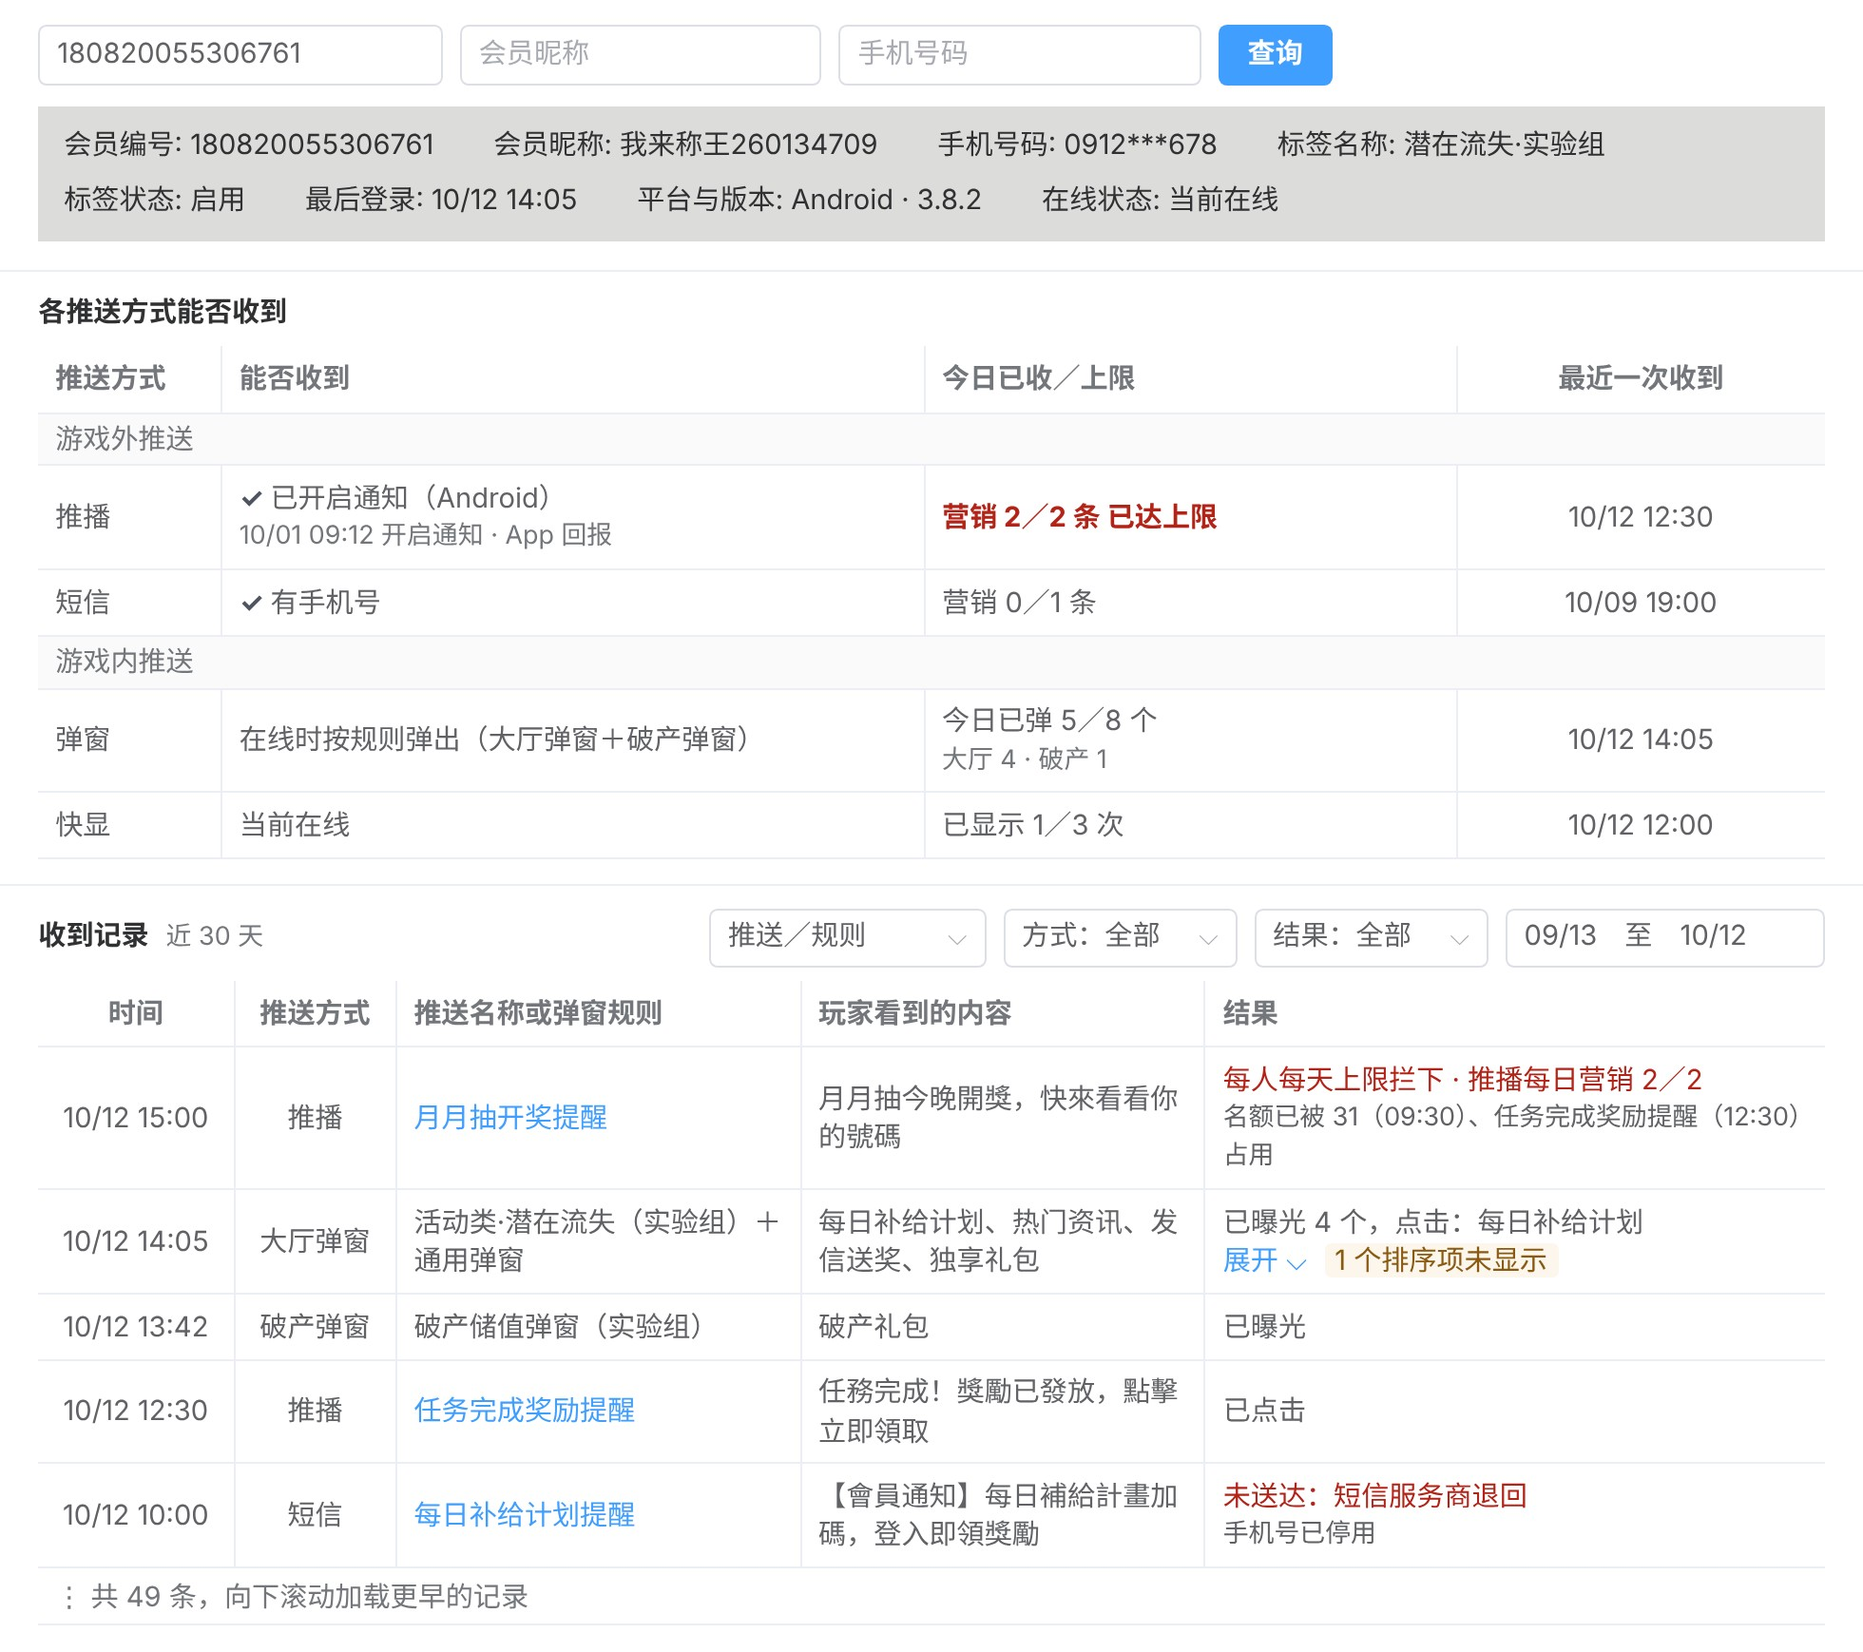
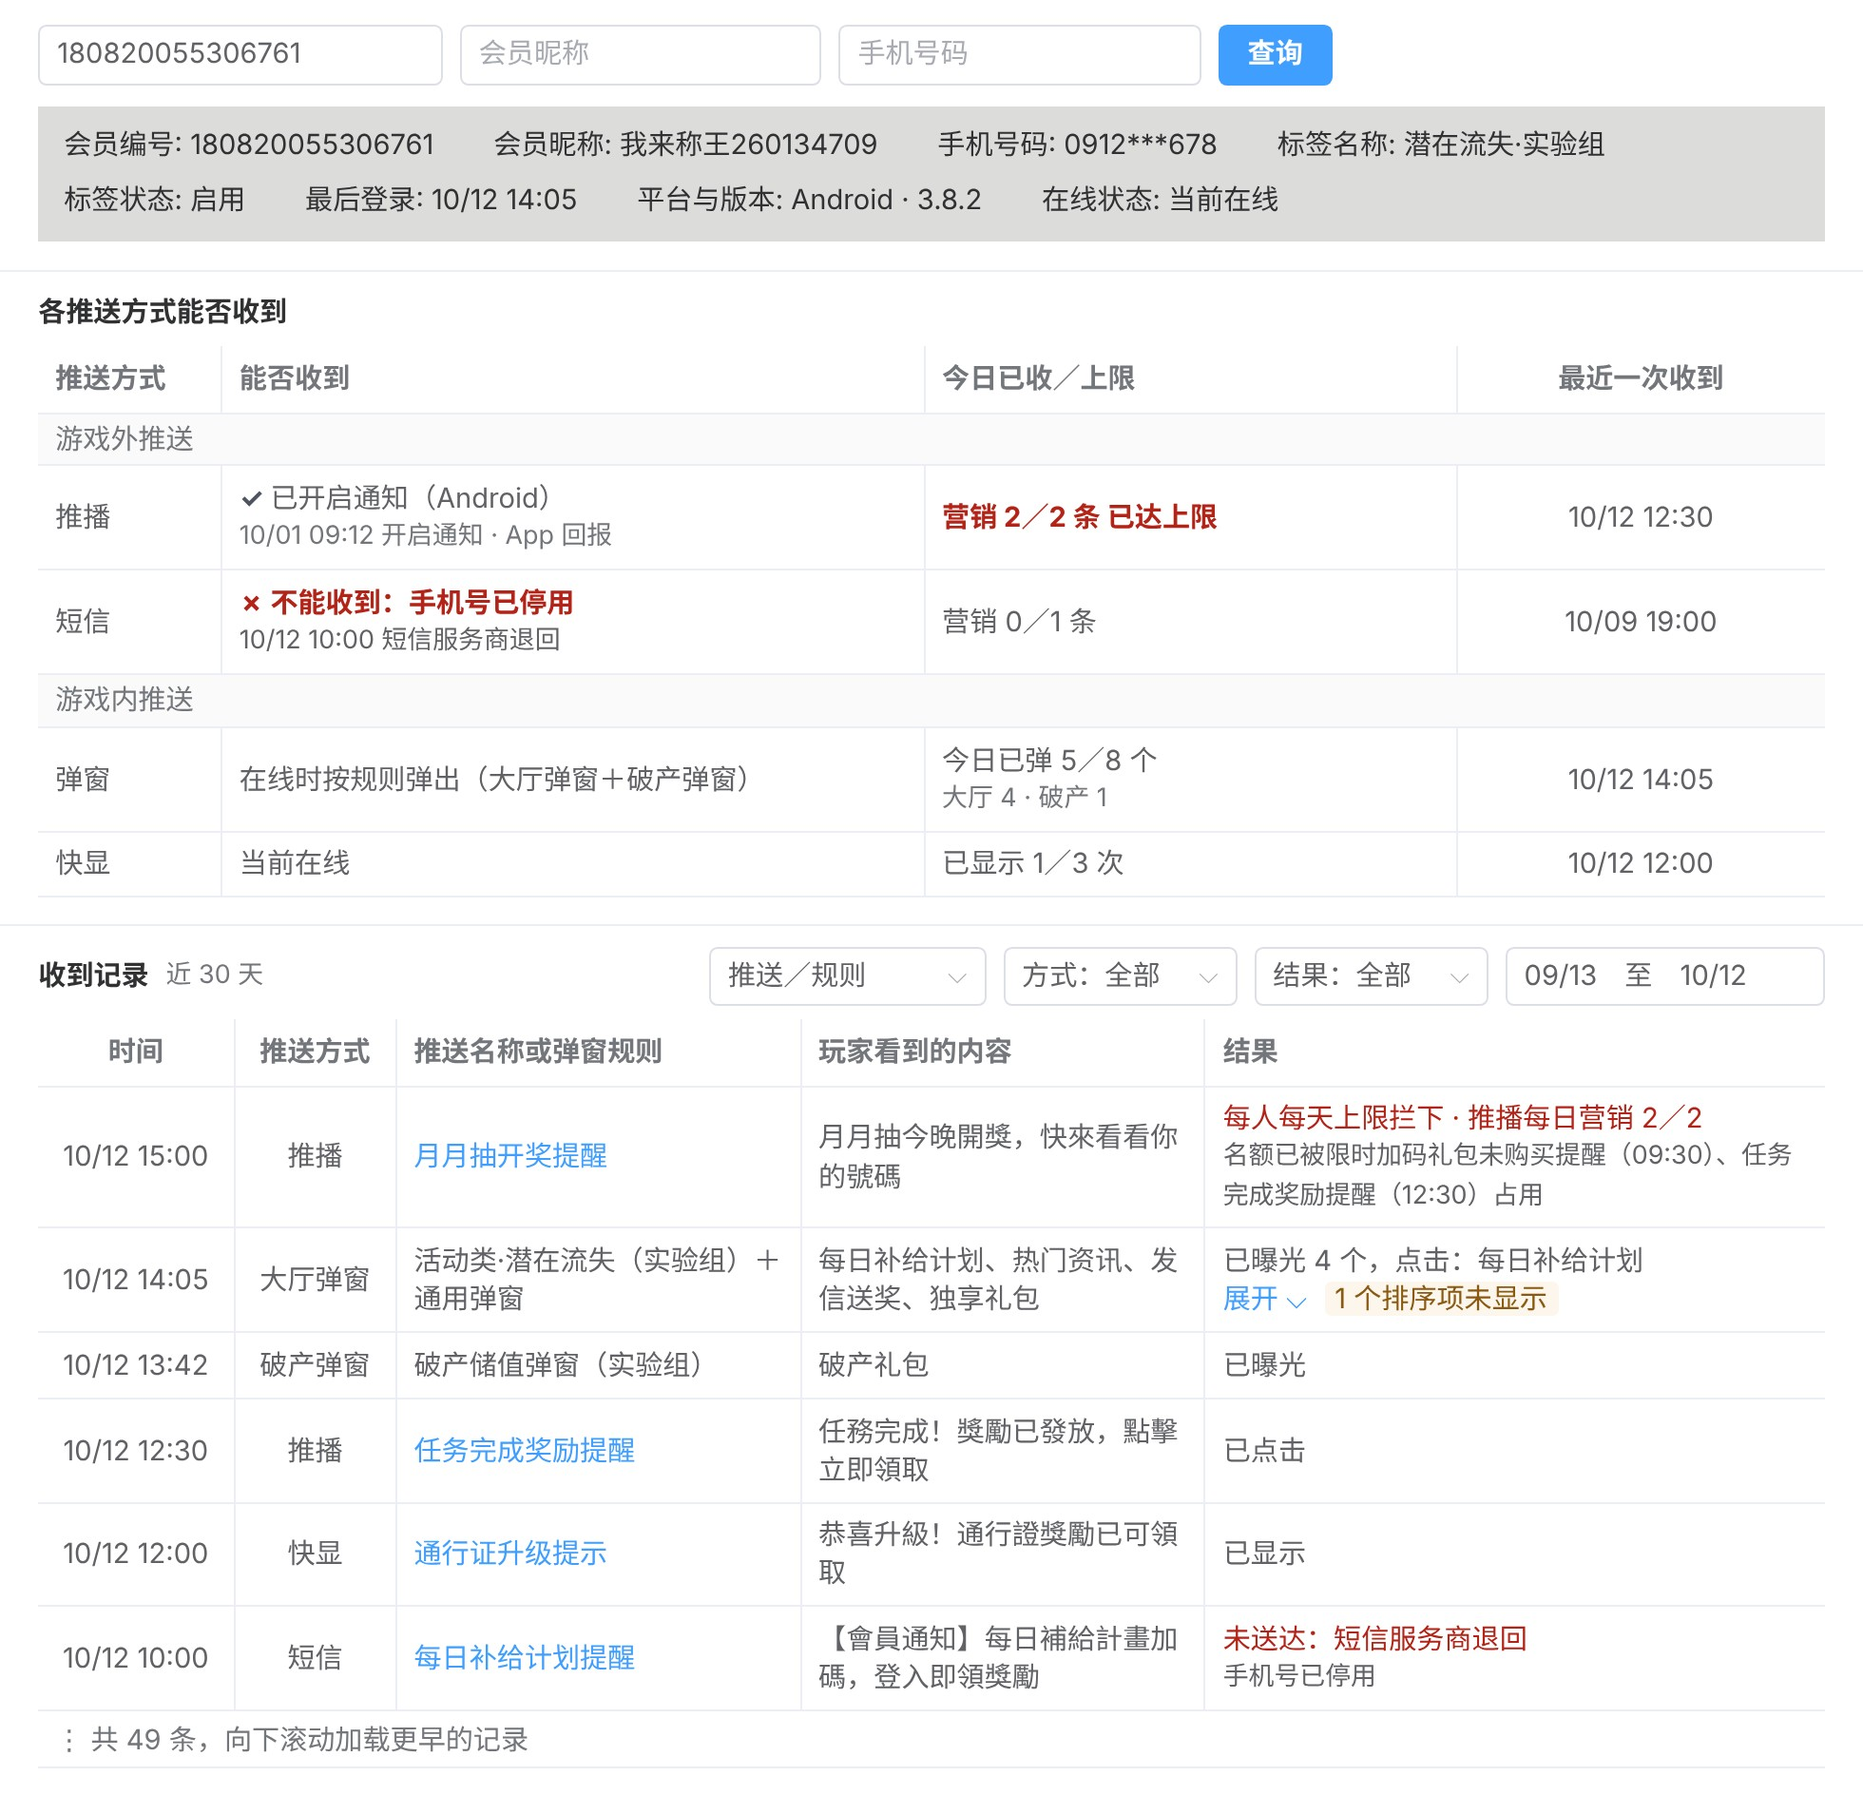
需求评审版进行中：后台结构图、截图示例数据对齐、图表样章
Claude-Session: https://claude.ai/code/session_01JtVy4xu4oTwDzwihYuUW45

diff --git a/弹窗标签推送系统/推送系统后台集成需求/需求评审版_原型/19_玩家查询.html b/弹窗标签推送系统/推送系统后台集成需求/需求评审版_原型/19_玩家查询.html
@@ -32,7 +32,7 @@ table.et td.l, table.et th.l{padding-left:8px}
       <tbody>
         <tr><td colspan="4" class="l" style="background:#FAFAFA;color:#73767A;padding:3px 8px">游戏外推送</td></tr>
         <tr><td class="l">推播</td><td class="l pd-ok">已开启通知（Android）<span class="sub2">10/01 09:12 开启通知 · App 回报</span></td><td class="l"><b class="pd-bad" style="white-space:nowrap">营销 2／2 条 已达上限</b></td><td>10/12 12:30</td></tr>
-        <tr><td class="l">短信</td><td class="l pd-ok">有手机号</td><td class="l">营销 0／1 条</td><td>10/09 19:00</td></tr>
+        <tr><td class="l">短信</td><td class="l pd-bad" style="white-space:nowrap"><b>✗ 不能收到：手机号已停用</b><span class="sub2" style="color:#606266">10/12 10:00 短信服务商退回</span></td><td class="l">营销 0／1 条</td><td>10/09 19:00</td></tr>
         <tr><td colspan="4" class="l" style="background:#FAFAFA;color:#73767A;padding:3px 8px">游戏内推送</td></tr>
         <tr><td class="l">弹窗</td><td class="l">在线时按规则弹出（大厅弹窗＋破产弹窗）</td><td class="l">今日已弹 5／8 个<span class="sub2">大厅 4 · 破产 1</span></td><td>10/12 14:05</td></tr>
         <tr><td class="l">快显</td><td class="l">当前在线</td><td class="l">已显示 1／3 次</td><td>10/12 12:00</td></tr>
@@ -45,10 +45,11 @@ table.et td.l, table.et th.l{padding-left:8px}
       <colgroup><col style="width:92px"><col style="width:76px"><col style="width:190px"><col style="width:190px"><col></colgroup>
       <thead><tr><th>时间</th><th>推送方式</th><th class="l">推送名称或弹窗规则</th><th class="l">玩家看到的内容</th><th class="l">结果</th></tr></thead>
       <tbody>
-        <tr><td>10/12 15:00</td><td>推播</td><td class="l"><span class="pd-lk">月月抽开奖提醒</span></td><td class="l tc">月月抽今晚開獎，快來看看你的號碼</td><td class="l pd-bad">每人每天上限拦下 · 推播每日营销 2／2<span class="sub2" style="color:#606266">名额已被 31（09:30）、任务完成奖励提醒（12:30）占用</span></td></tr>
+        <tr><td>10/12 15:00</td><td>推播</td><td class="l"><span class="pd-lk">月月抽开奖提醒</span></td><td class="l tc">月月抽今晚開獎，快來看看你的號碼</td><td class="l pd-bad">每人每天上限拦下 · 推播每日营销 2／2<span class="sub2" style="color:#606266">名额已被限时加码礼包未购买提醒（09:30）、任务完成奖励提醒（12:30）占用</span></td></tr>
         <tr><td>10/12 14:05</td><td>大厅弹窗</td><td class="l">活动类·潜在流失（实验组）＋通用弹窗</td><td class="l">每日补给计划、热门资讯、发信送奖、独享礼包</td><td class="l">已曝光 4 个，点击：每日补给计划<span style="display:block"><span class="u">展开 ⌵</span><span style="margin-left:8px;padding:0 5px;border-radius:3px;background:#FDF6EC;color:#8A5A12">1 个排序项未显示</span></span></td></tr>
         <tr><td>10/12 13:42</td><td>破产弹窗</td><td class="l">破产储值弹窗（实验组）</td><td class="l">破产礼包</td><td class="l">已曝光</td></tr>
         <tr><td>10/12 12:30</td><td>推播</td><td class="l"><span class="pd-lk">任务完成奖励提醒</span></td><td class="l tc">任務完成！獎勵已發放，點擊立即領取</td><td class="l">已点击</td></tr>
+        <tr><td>10/12 12:00</td><td>快显</td><td class="l"><span class="pd-lk">通行证升级提示</span></td><td class="l tc">恭喜升級！通行證獎勵已可領取</td><td class="l">已显示</td></tr>
         <tr><td>10/12 10:00</td><td>短信</td><td class="l"><span class="pd-lk">每日补给计划提醒</span></td><td class="l tc">【會員通知】每日補給計畫加碼，登入即領獎勵</td><td class="l pd-bad">未送达：短信服务商退回<span class="sub2" style="color:#606266">手机号已停用</span></td></tr>
         <tr><td colspan="5" class="l" style="color:#73767A;padding:4px 8px">⋮ 共 49 条，向下滚动加载更早的记录</td></tr>
       </tbody>

diff --git a/弹窗标签推送系统/推送系统后台集成需求/需求评审版_原型/18a_项目目录.html b/弹窗标签推送系统/推送系统后台集成需求/需求评审版_原型/18a_项目目录.html
@@ -31,7 +31,7 @@ body{font-family:"Inter","Noto Sans CJK SC","PingFang SC","Microsoft YaHei",sans
       <thead><tr><th>名称与编码</th><th style="width:76px">类型</th><th style="width:220px">起止时间</th><th style="width:90px">状态</th><th class="r" style="width:84px">被引用</th><th style="width:64px">操作</th></tr></thead>
       <tbody>
         <tr><td class="nm"><b>周年庆</b><span class="sub">ACT_ANNIV_26</span></td><td>活动类</td><td style="white-space:nowrap">10/24 12:00 – 10/31 23:59</td><td><span class="stt">已排程</span></td><td class="r">13</td><td class="ops"><span class="elink">编辑</span></td></tr>
-        <tr><td class="nm"><b>活动排行榜 · 万圣节榜</b><span class="sub">ACT_RANK_HW26</span></td><td>活动类</td><td style="white-space:nowrap">10/16 12:00 – 11/02 23:59</td><td><span class="stt">已排程</span></td><td class="r">3</td><td class="ops"><span class="elink">编辑</span></td></tr>
+        <tr><td class="nm"><b>活动排行榜 · 万圣节榜</b><span class="sub">ACT_RANK_HW26</span></td><td>活动类</td><td style="white-space:nowrap">10/16 12:00 – 11/02 23:59</td><td><span class="stt">已排程</span></td><td class="r">5</td><td class="ops"><span class="elink">编辑</span></td></tr>
         <tr><td class="nm"><b>回流礼包 B</b><span class="sub">GIFT_RETURN_B</span></td><td>储值类</td><td style="white-space:nowrap">10/10 00:00 – 10/31 23:59</td><td><span class="stt on">可用</span></td><td class="r">1</td><td class="ops"><span class="elink">编辑</span></td></tr>
         <tr><td class="nm"><b>活动排行榜 · 中秋排名赛</b><span class="sub">ACT_RANK_MAF26</span></td><td>活动类</td><td style="white-space:nowrap">10/05 12:00 – 10/20 23:59</td><td><span class="stt on">可用</span></td><td class="r">3</td><td class="ops"><span class="elink">编辑</span></td></tr>
         <tr style="color:var(--mute)"><td class="nm"><b style="color:var(--mute)">BOSS 战 · 第 11 期</b><span class="sub">ACT_BOSS_S11</span></td><td>活动类</td><td style="white-space:nowrap">09/20 12:00 – 10/08 23:59</td><td><span class="stt dim">已下线</span></td><td class="r">1</td><td class="ops"><span class="elink">编辑</span></td></tr>

diff --git a/弹窗标签推送系统/分析/需求评审版_改版记录.md b/弹窗标签推送系统/分析/需求评审版_改版记录.md
@@ -33,6 +33,38 @@
 
 交付前必查：第 3 条（措辞）过——上面的 grep 与逐张读图；第 4 条（只写有效信息）过——图里没有路径、标注、被删功能（接替人数、多截掉项目数、逐条平移、迁入管理、活动总览、测试记录）；第 8 条（每个功能先问）过——11、18 照 A91 第一节改，其余 10 张没有新增功能。第 1、2、5、6、7、9 条是整份材料的结构与页标题，本子任务只出截图，不适用。
 
+核对员反馈后补改（只动 18a、19 的源文件与 jpg，18 无需改）：① 18a 万圣节榜「被引用」3 → 5，与 18 列出的 5 项一致；② 19 名额占用写成名称「限时加码礼包未购买提醒（09:30）」，不再只写编号 31；③ 19 下方近 30 天记录补一行 10/12 12:00 快显「通行证升级提示」已显示，与上表快显「最近一次收到 12:00、已显示 1／3 次」对上；④ 19 上表短信行由「有手机号」改为「不能收到：手机号已停用（10/12 10:00 短信服务商退回）」，与下方记录一致，最近一次收到仍为 10/09 19:00（停用之前）。上面 18a「数字同旧图」、19 的差异说明以本条为准。
+
+### C 后台结构
+
+改了什么：`需求评审版源.html` 里 `<section class="arch">` 整块重做；主 `<style>` 里原「开屏：后台结构图」23 行（`.frame/.cols/.mcol/.meth/.chips/.pgx/.laterrow/.later/.shared` 等，已确认别处没用到）删掉，结构图样式另写在 `<style id="arch">` 一块里。没动其他页、主样式其余部分，没运行拼装脚本。
+
+比较过的排法：
+| 排法 | 看到的效果 | 结论 |
+|---|---|---|
+| A 容器嵌套，横条宽度表示管多大范围 | 三块各是一个底色容器；推送方式是并列的列，页面在列下；管整类的页面是横跨该类两列的横条；两类共用在下方横跨两栏——越往下管的范围越大，不用写字说明 | 选 |
+| B 从左到右的树（后台 → 三块 → 推送方式 → 页面） | 右列 13 个页面就是侧栏目录换了个方向（评-16 已否的「第二份目录」）；「每人每天上限与勿扰」和推送方式下的页面挂在同一列，看不出它管整类；会员标签设定的连线要指向分散的四个节点 | 不选 |
+
+A 里又试了三种画法：A2 推播、短信都画成实心色块——短信看着像没有页面的空分类；A3 推送方式区再加一层浅底——横条与推送方式分得开，但多一层容器，而且实心的「推播」挨着白框「短信」，像一个选中推播的切换按钮；A4 推播、弹窗画成带色条标题的卡片，卡片里装它们的页面，短信、快显就是一个白框——用 A4。横条放在推送方式下面而不是上面：标签群组的连线从上方进入推送方式，横条在上面会被连线穿过；也与菜单顺序一致（推播、短信在前，上限、数据统计在后）。
+
+最终组成（先截图、后结构图）：
+- 原型截图 `需求评审版_图/00_后台首页.jpg`，980 宽，图注「后台首页」。
+- 结构图：内联 SVG，980×656，宽度随版面缩放。框外灰框「会员标签设定（现有后台）」，一条标「标签群组」的连线进入外框，分出四个箭头指向推播、短信、弹窗、快显。外框「推送统一后台」里：左栏游戏外推送（玩家不在游戏里也收得到），推播卡片装按玩家分群推送、按玩家行为自动推送，旁边是短信，下面两条横条是每人每天上限与勿扰、推播与短信数据统计；右栏游戏内推送（玩家在游戏里才看得到），弹窗卡片装按玩家分群配置弹窗，旁边是快显，横条是每人每天弹窗与快显上限、弹窗与快显数据统计；下方两类共用横跨两栏：概览、项目目录、玩家查询、操作纪录。
+- 白框就是页面，共 13 个，与侧栏 13 页一一对应，各链接到 `#p1`–`#p13`，悬停填色；推播、弹窗的色条不是单独的页面，不可点；三块名称链接到 `#part1`–`#part3`。配色用 `--p1/--p2/--p3`（CSS 变量）。没有页码、图例、说明小字，没有 Facebook、LINE。
+
+自查：
+- 截图（Playwright，Noto Sans CJK）：1480 宽截 `.arch`、`.amap` 共三轮（A1 → A2/A3/A4 → 定稿进源文件），另截悬停状态和 1280 宽（缩到 940 宽，15px 字缩成约 14px，仍清楚）。
+- 程序核对：16 个链接的目标都存在；13 个页面名与侧栏、页标题逐字相同；没有重复 id；没有文字贴到框边；源文件里旧类名 0 处。
+- 读者测试（扮演不了解项目的评审读者，只看本节）：后台分几块——推送统一后台分游戏外推送、游戏内推送、两类共用三块；每块有哪些页面——照图能逐个念出；哪些管整类——横跨两列的四条横条；标签群组从哪来——现有的会员标签设定，进入推播、短信、弹窗、快显。A2 时会把短信说成「没有页面的分类」，所以改成了 A4 的白框。
+
+要主对话知道的：
+- `00_后台首页.jpg` 现在还不存在（B 在做），本节截图位置暂时是空图；拼装脚本遇到缺图会报错，等 B 出图后再拼装。
+- 推播、弹窗在后台菜单里是菜单项，正文里没有同名页，所以结构图把它们画成装着页面的卡片、不可点。
+- 全局已有 `section.pg`、`.partband .pm`、`nav .grp`，结构图的类名改用 `node`、`solo`、`mgrp` 等，样式都限定在 `.amap` 下。以后改页面名直接改 SVG 里的文字：卡片里的页面框宽 180（9 个字有余，超过 10 个字要加宽），横条宽 416。
+- 参考库评-13 的「采纳」写法还画了礼包后台、营销侧排程，这里没画，按任务说明甲只画会员标签设定。
+
+交付前必查：第 1 条（边界看得见）过——外框、三块容器、框外系统一眼可见，没有页码或目录式说明；第 3 条（措辞）过——两栏短语照已定事项第 24 条原意，读者测试复述一致；第 4 条（只写有效信息）过——没有图例、说明小字、过程痕迹、Facebook、LINE；第 6 条（阅读体验）过——一屏 980×656，1280 宽仍可读；第 7 条（读者最先看的地方）首屏是总标题、「后台结构」和截图，截图待 B 出图后再看一次。第 2、5、8、9 条本节不适用（没改页标题，没加功能）。
+
 ### D 正文与折叠
 
 折叠（13 页）：每页「业务规则」由 `h3.bk` 小标题改为默认折叠的 `<details class="rules">`；标题栏写「业务规则」，旁边浅色小字列本页小组名（「 · 」隔开，13 页逐页用程序比对与页内 `h4` 一致）；整行可点，左侧箭头收起时朝右、展开时朝下（CSS 旋转），悬停换成本部分浅底色（`--pbg`），键盘聚焦有描边；展开后小组与条目不变。样式在主 `<style>`「业务规则：默认折叠」一段，替换原 `h3.bk` 三行；没动 arch 一节和 `.arch` 等样式。自查截图：`/tmp/claude-0/p8_closed.png`、`/tmp/claude-0/p8_open.png`（1480 宽），`/tmp/claude-0/m_p6.png`（390 宽，小组名换行到第二行）。
